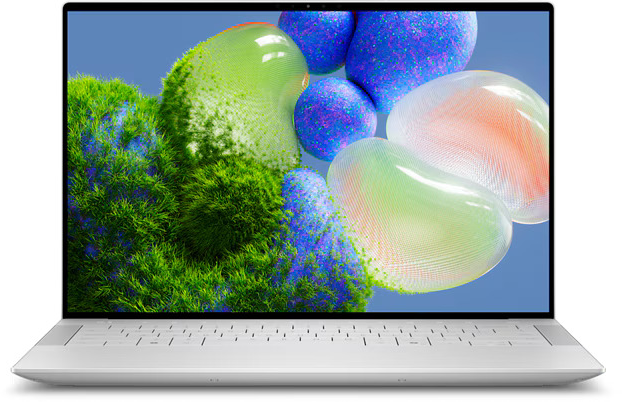
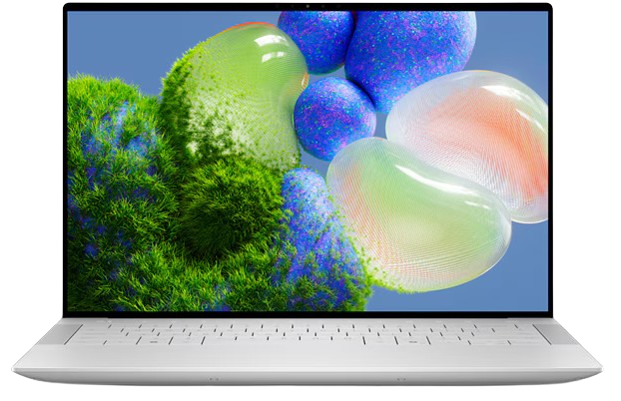
Eliminar fondo imagenes

diff --git a/index.html b/index.html
@@ -23,7 +23,7 @@
           <div class="formato-imagen">
             <img
               class="modelo-pc"
-              src="macbookair.jpg"
+              src="macbookair.png"
               alt="Apple MacBook Air 13"
             />
           </div>
